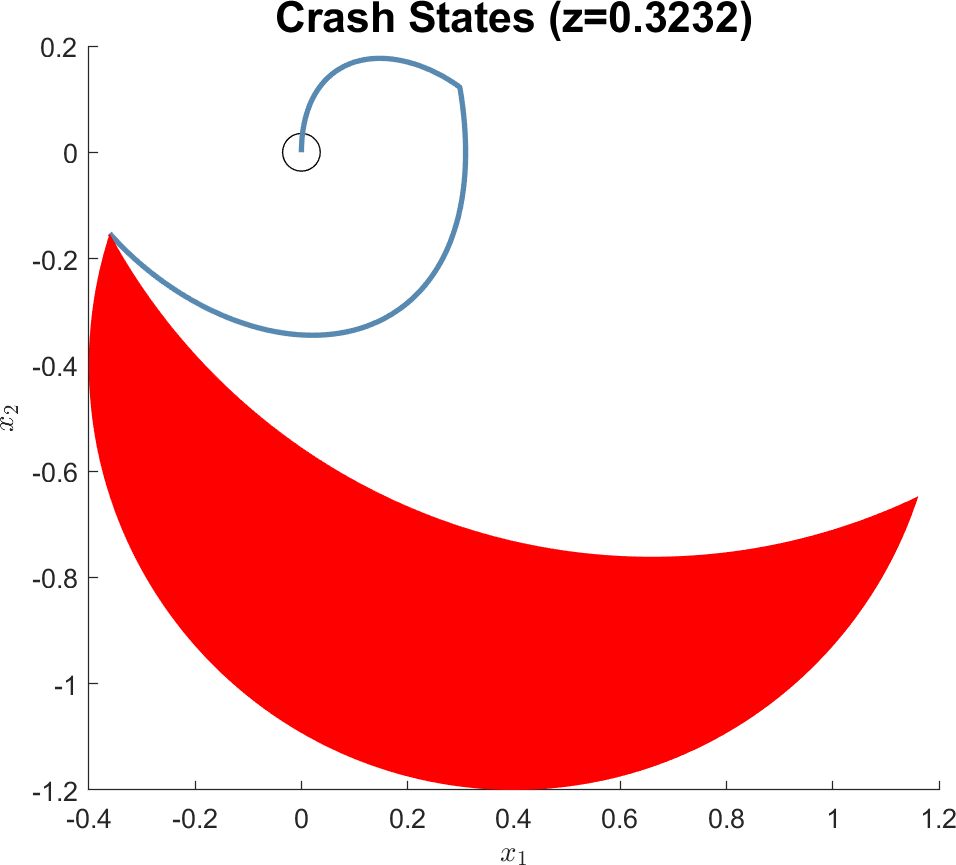
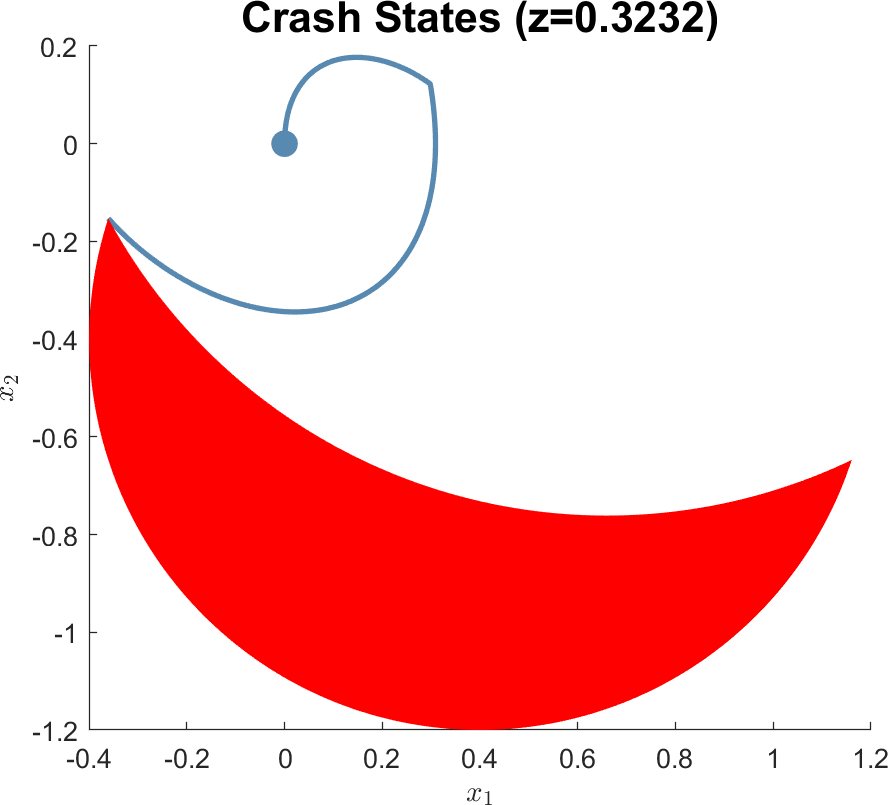
updated crash-casadi figures and polytope growth

diff --git a/utils/nontrivial_constraints.m b/utils/nontrivial_constraints.m
@@ -1,0 +1,60 @@
+function [A_red, b_red, nontrivial, num_nontrivial] = nontrivial_constraints(A, b, tol)
+%NONTRIVIAL_CONSTRAINTS Identify nontrivial linear constraints of the
+%polytope A x <= b
+%Perform this by iterative linear programming in yalmip
+%may require multiple iterations (numeric difficulties)
+%J. Miller, May 22 2021
+
+if nargin < 3
+    tol = 1e-8;
+end
+
+[m, d] = size(A);
+
+% w = sdpvar(d, 1);
+% cost = sdpvar(d, 1);
+% 
+% objective = cost'*w;
+% cons = A*w <= b;
+% 
+% 
+% linopts = sdpsettings('solver', 'mosek',...
+%                 'mosek.MSK_DPAR_INTPNT_TOL_DFEAS', 1e-10,...
+%                 'mosek.MSK_DPAR_INTPNT_TOL_PFEAS', 1e-10);
+% Lopt = optimizer(cons, objective, linopts, cost, w);
+
+
+nontrivial = logical(zeros(m, 1));
+
+% tic
+% tol = 1e-8;
+opts = optimoptions('linprog', 'Display', 'off');
+%   opts= mskoptimset('Diagnostics','off');
+for i = 1:m
+    %solve linprog in current direction
+    if ~nontrivial(i)
+        cost_curr = -A(i, :);
+%         [w_curr, error_optA, statusA, dual_curr] = Lopt{cost_curr};
+
+        
+%         prob = struct('f', cost_curr,'A', A, 'b', b, 'options', opts)
+        [w_curr,fval,exitflag,output,dual_curr] = ...
+                    linprog(cost_curr,A,b, zeros(0, d), [], [], [], opts);
+        %             linprog(prob);
+        active_cons = dual_curr.ineqlin>tol;
+%         active_cons = dual_curr{1} > tol;
+%         n_active = nnz(active_cons);
+        nontrivial(active_cons) = true;
+    end
+end
+
+% toc
+
+% nnz(nontrivial)
+num_nontrivial = nnz(nontrivial);
+A_red = A(nontrivial, :);
+b_red = b(nontrivial, :);
+
+
+end
+

diff --git a/testing/casadi/crash_flow_casadi_single.m b/testing/casadi/crash_flow_casadi_single.m
@@ -4,7 +4,7 @@
 
 %based on https://web.casadi.org/blog/ocp/ race_car.m
 
-N = 100; % number of control intervals
+N = 400; % number of control intervals
 
 opti = casadi.Opti(); % Optimization problem
 
@@ -102,7 +102,13 @@ figure(1)
 clf
 hold on
 
-scatter(C0(1), C0(2), 200, 'ok')
+if ~INIT_POINT
+%     scatter(C0(1), C0(2), 200, 'ok')
+% else
+    th = linspace(0, 2*pi, 200);
+    plot(cos(th)*R0 + C0(1), sin(th)*R0 + C0(2), 'k')    
+end
+scatter(sol.value(X(1, 1)), sol.value(X(2, 1)), 100, c(1, :), 'filled')
 c = linspecer(3);
 plot(sol.value(X(1, :)), sol.value(X(2, :)), 'color', c(1, :), 'linewidth', 2)
 
@@ -111,9 +117,9 @@ circ_half = [cos(theta_half_range); sin(theta_half_range)];
 Xu = Cu + circ_half* Ru;
 patch(Xu(1, :), Xu(2, :), 'r', 'Linewidth', 3, 'EdgeColor', 'none', 'DisplayName', 'Unsafe Set')
 
-xlabel('x_1')
-ylabel('x_2')
-title('Crash states') 
+xlabel('$x_1$', 'interpreter', 'latex')
+ylabel('$x_2$', 'interpreter', 'latex')
+title(sprintf('Crash States (z=%0.4f)', sol.value(Z)), 'fontsize', 16)  
 pbaspect([diff(xlim), diff(ylim), 1])
 
 figure(2)

diff --git a/testing/polytopes/crash_polytope_grow.m b/testing/polytopes/crash_polytope_grow.m
@@ -1,0 +1,28 @@
+%what is the relationship between the number of nonredundant faces on a
+%polytope and dilation of the rhs constraints?
+
+%increasing z could actually increase the number of faces in the polytope.
+%this is not the result that I was expecting.
+%
+
+load('crash_poly_flow.mat');
+
+[m, L] = size(W.A);
+
+w = sdpvar(L, 1);
+z = sdpvar(1, 1);
+
+%find the first nontrivial parameter value
+
+cons = [z>=0; W.A*w <= (z + W.b)];
+
+opts = sdpsettings('solver', 'mosek', 'verbose', 0);
+sol = optimize(cons, z, opts);
+
+z_min = value(z)
+
+[A_min, b_min, non_min, num_min] = nontrivial_constraints(W.A, W.b+z_min);
+[A_half, b_half, non_half, num_half] = nontrivial_constraints(W.A, W.b+0.5);
+[A_opt, b_opt, non_opt, num_opt] = nontrivial_constraints(W.A, W.b+0.55);
+[A_all, b_all, non_all, num_all] = nontrivial_constraints(W.A, W.b+1);
+[A_double, b_double, non_double, num_double] = nontrivial_constraints(W.A, W.b+2);

diff --git a/testing/casadi/crash_flow_moon_casadi_single.m b/testing/casadi/crash_flow_moon_casadi_single.m
@@ -4,7 +4,7 @@
 
 %based on https://web.casadi.org/blog/ocp/ race_car.m
 
-N = 200; % number of control intervals
+N = 400; % number of control intervals
 
 opti = casadi.Opti(); % Optimization problem
 
@@ -116,7 +116,8 @@ figure(1)
 clf
 hold on
 
-scatter(C0(1), C0(2), 200, 'ok')
+% scatter(C0(1), C0(2), 200, 'ok')
+scatter(sol.value(X(1, 1)), sol.value(X(2, 1)), 100, c(1, :), 'filled')
 c = linspecer(3)
 plot(sol.value(X(1, :)), sol.value(X(2, :)), 'color', c(1, :), 'linewidth', 2)
 % plot(sol.value(X(1, :)), sol.value(X(2, :)))

diff --git a/testing/casadi/crash_flow_casadi_data_driven.m b/testing/casadi/crash_flow_casadi_data_driven.m
@@ -122,7 +122,8 @@ hold on
 
 c = linspecer(3);
 
-scatter(C0(1), C0(2), 200, 'ok')
+% scatter(C0(1), C0(2), 200, 'ok')
+scatter(sol.value(X(1, 1)), sol.value(X(2, 1)), 100, c(1, :), 'filled')
 plot(sol.value(X(1, :)), sol.value(X(2, :)), 'color', c(1, :), 'linewidth', 3)
 
 theta_half_range = linspace(theta_c-pi/2, theta_c + pi/2, 200);
